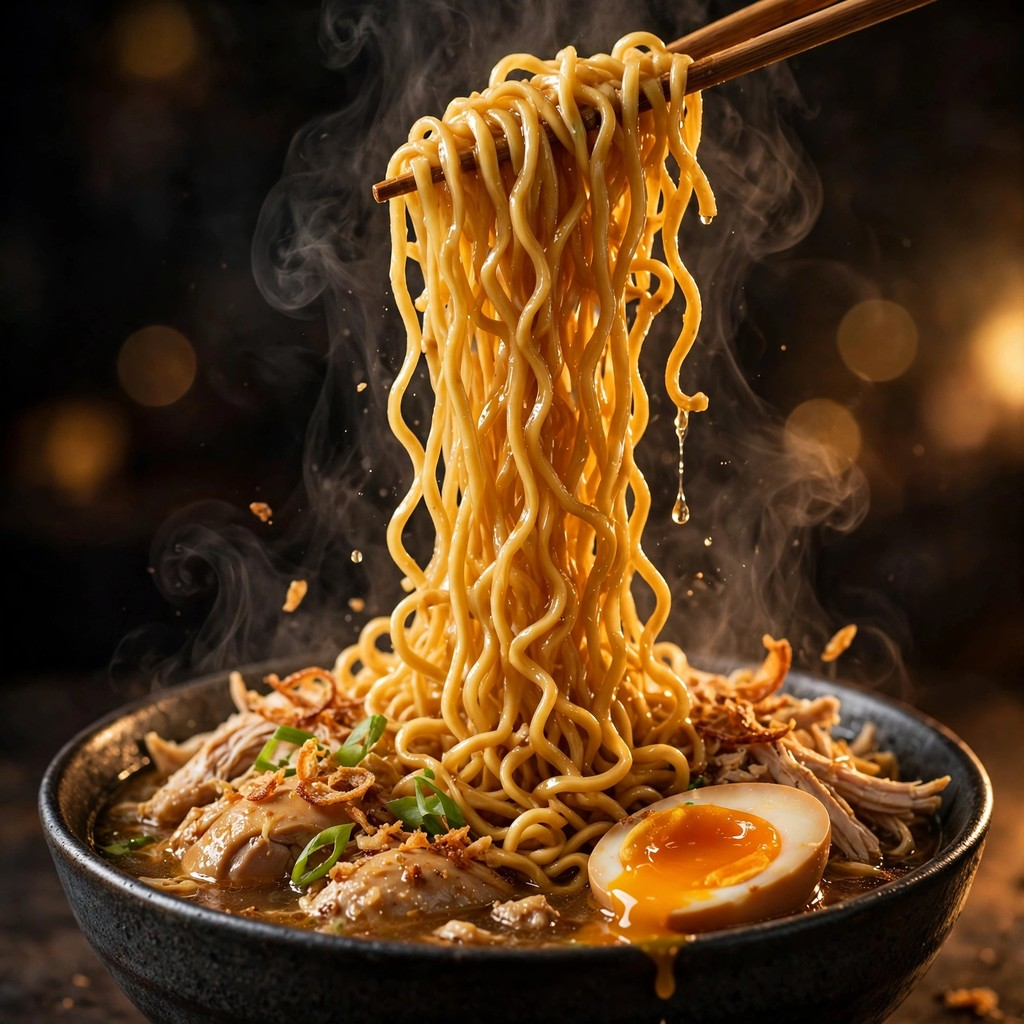
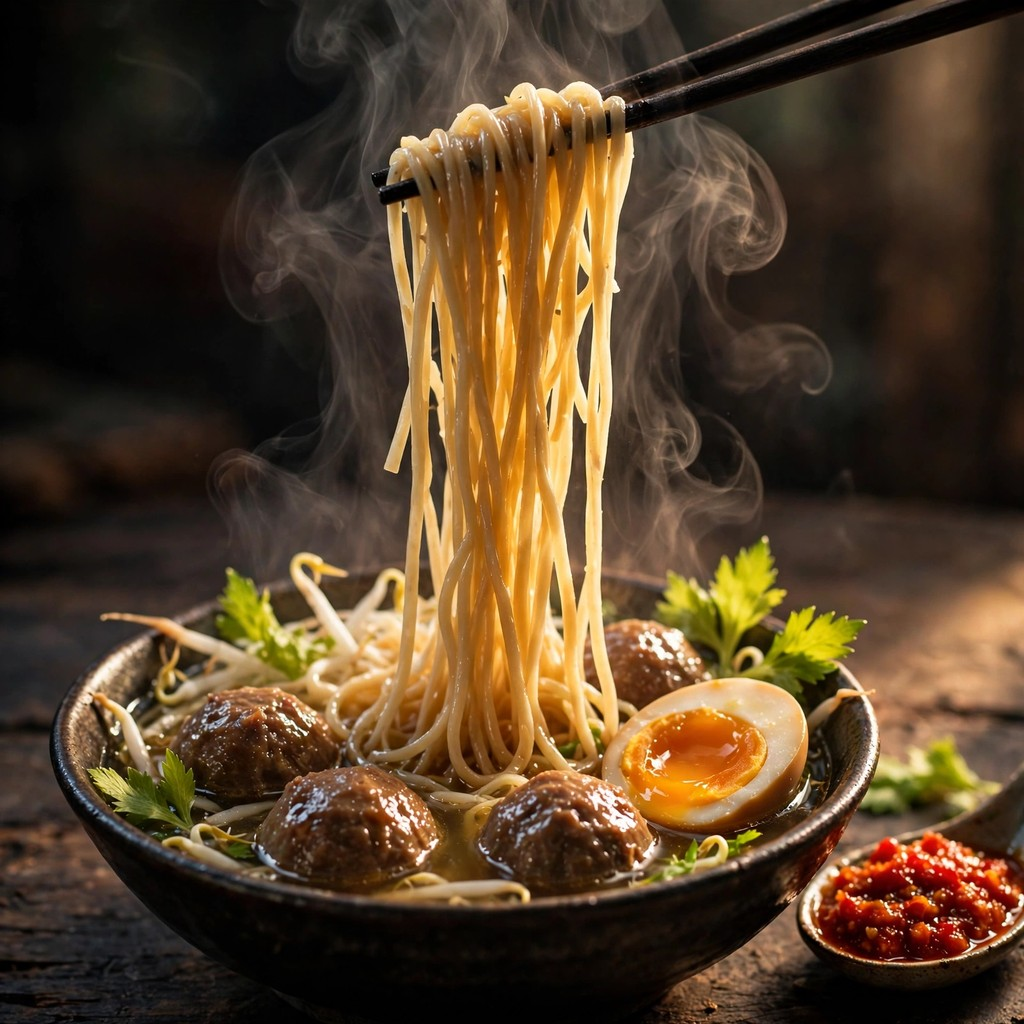
Bakso — Tall Noodle Pull — food-picture-01 entry

diff --git a/main.py b/main.py
@@ -1,8 +1,6 @@
-import os
-import shutil
+import os,shutil
 from pathlib import Path
-
-HERE = Path(__file__).resolve().parent
-out = Path(os.environ.get("MAKEFUN_OUTPUT_DIR", "/output"))
-out.mkdir(parents=True, exist_ok=True)
-shutil.copyfile(HERE / "entry.png", out / "entry.png")
+s=Path(__file__).parent/'entry.png'
+d=Path(os.environ.get('MAKEFUN_OUTPUT_DIR','/output'))
+d.mkdir(parents=True,exist_ok=True)
+shutil.copyfile(s,d/'entry.png')

diff --git a/README.md b/README.md
@@ -1,16 +1,3 @@
-# Mie Ayam — Tall Noodle Pull
+# Bakso — Tall Noodle Pull — food-picture-01 entry
 
-A professional food photograph of Indonesian mie ayam: a tall lift of glossy
-golden egg noodles rising from a dark bowl of steaming chicken broth, a halved
-jammy egg with its yolk dripping, shredded chicken, fried shallots and spring
-onion scattered on top, steam curling up in warm light.
-
-## Run it
-
-```
-mkdir -p out && MAKEFUN_OUTPUT_DIR=out python3 main.py
-```
-
-This copies `entry.png` into the output directory.
-
-The image is 1024x1024 and under 1 MiB.
+A bowl of steaming bakso, noodles lifted high from the clear beef broth, meatballs glistening and steam rising.
